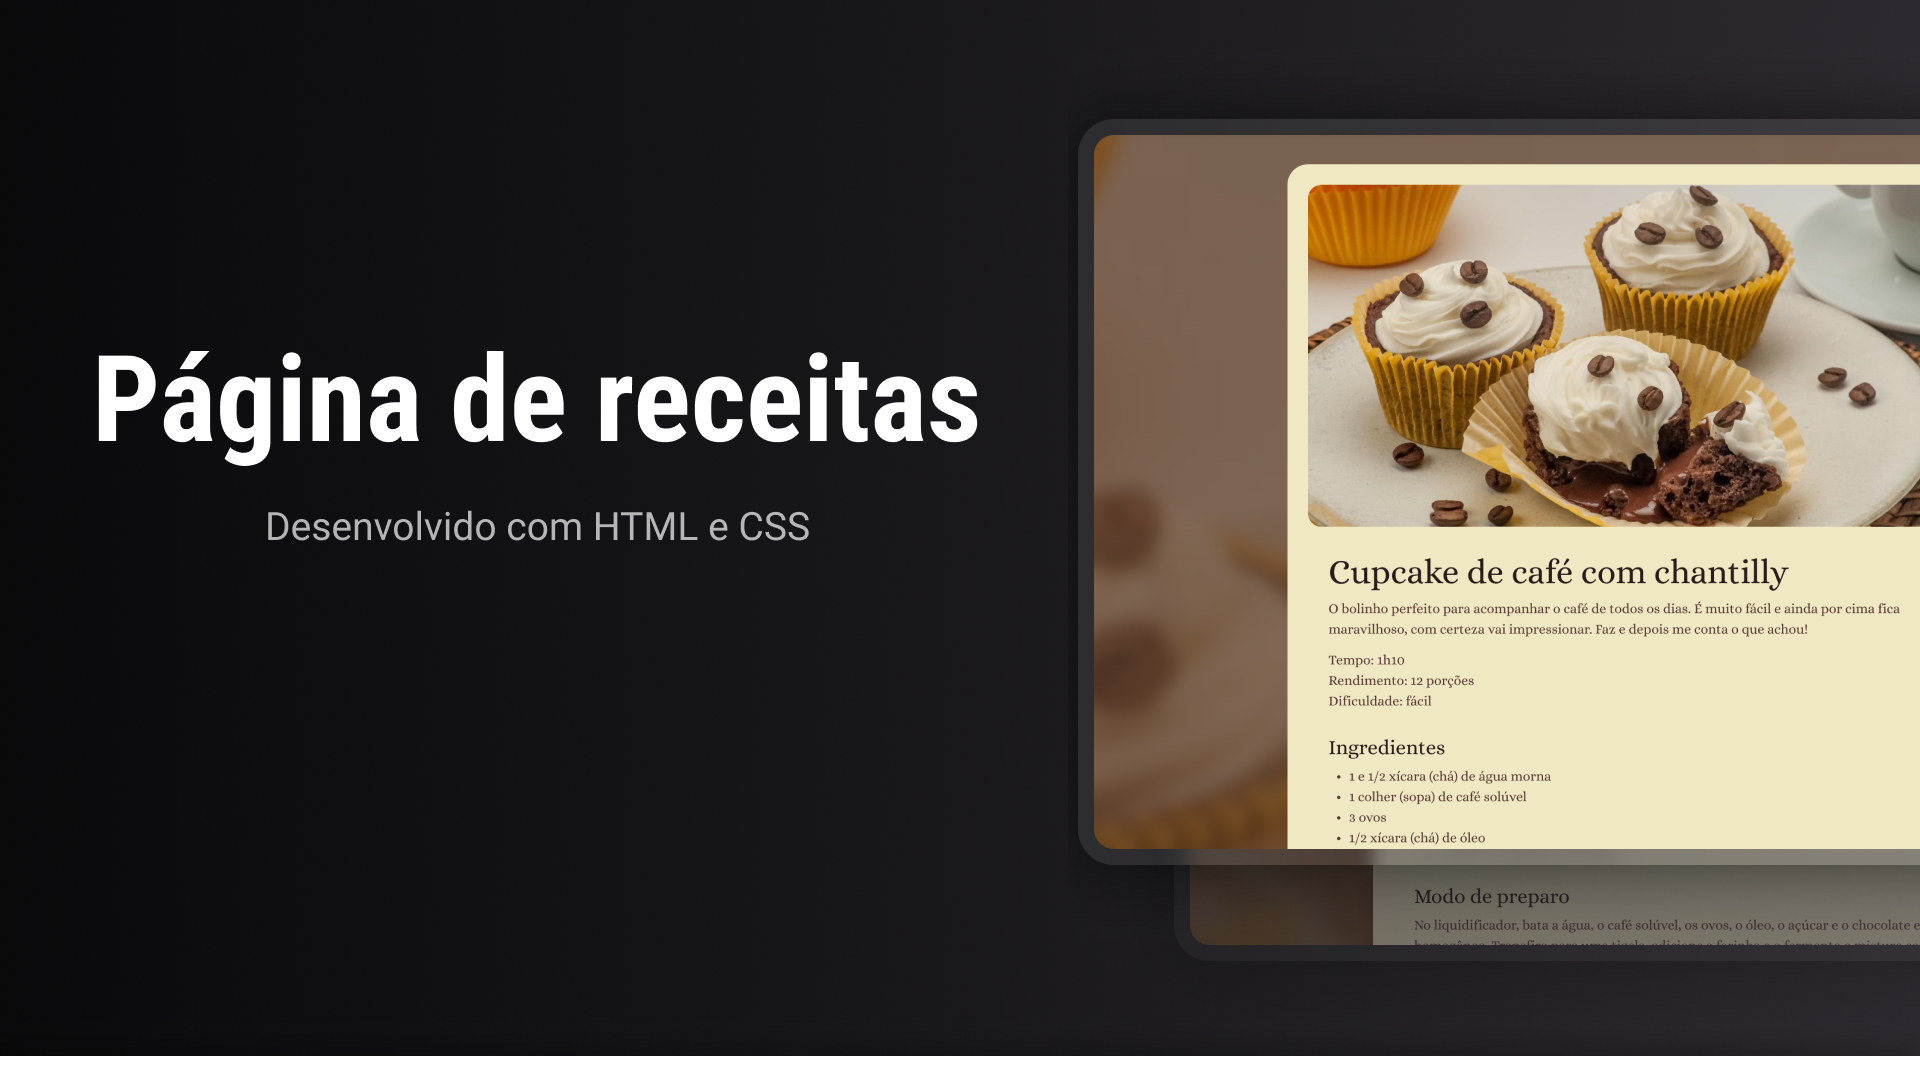
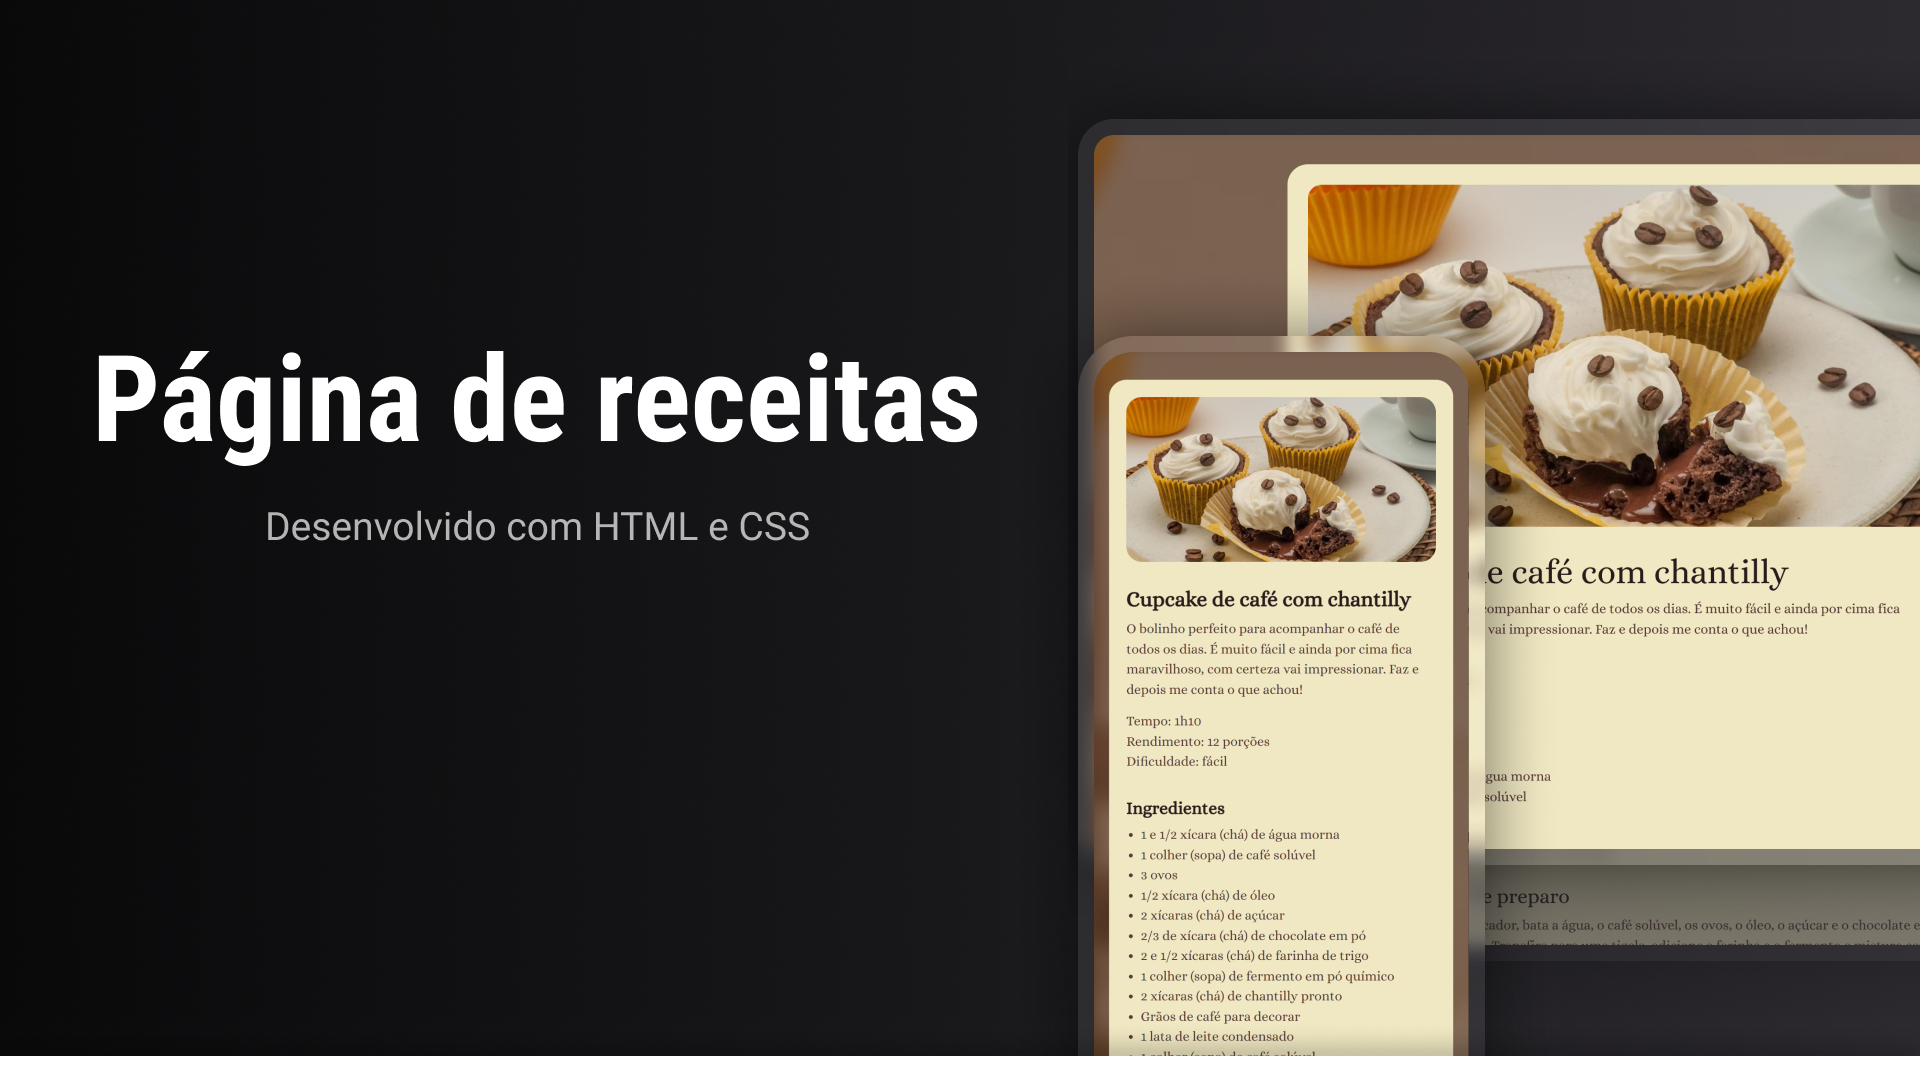
feat: configure responsive layout

Changed region(s): [[0.5625, 0.275, 0.8125, 0.9778]]

diff --git a/style.css b/style.css
@@ -1,6 +1,7 @@
 * {
   margin: 0;
   padding: 0;
+  box-sizing: border-box;
 }
 
 :root {
@@ -13,11 +14,13 @@ body {
   background-image: url(assets/bg-image.jpg);
   background-size: cover;
   background-repeat: no-repeat;
+  overflow-x: hidden;
 }
 
 #page {
-  box-sizing: border-box;
-  width: 800px;
+  
+  width: 100%;
+  max-width: 800px;
   padding: 24px;
   border-radius: 24px;
   margin: 48px auto 28px;
@@ -26,10 +29,12 @@ body {
 
 img {
   border-radius: 16px;
+  width: 100%;
 }
 
 main {
   padding: 24px;
+  width: 100%;
 }
 
 section + section {
@@ -63,4 +68,40 @@ footer {
   color: #F0E8C2;
   text-align: center;
   padding-bottom: 48px;
+}
+
+@media (max-width: 768px) {
+  body {
+    padding: 16px 16px 0;
+  }
+
+  #page {
+    margin: 24px auto;
+    padding: 18px;
+    border-radius: 18px;
+  }
+
+  main {
+    padding: 16px 0;
+  }
+
+  h1 {
+    font-size: 22px;
+  }
+
+  h2 {
+    font-size: 18px;
+  }
+
+  #about p,
+  #preparation p {
+    font-size: 14px;
+    line-height: 150%;
+  }
+
+  ul {
+    padding-left: 15px;
+    font-size: 14px;
+    line-height: 150%;
+  }
 }

diff --git a/README.md b/README.md
@@ -36,6 +36,7 @@ A Página de receitas é uma interface desenvolvida para praticar fundamentos de
 - Estrutura com título, imagem, ingredientes e modo de preparo
 - Layout visual limpo e agradável
 - Organização de conteúdo para leitura facilitada
+- Layout responsivo
 
 
 ## Projeto online
